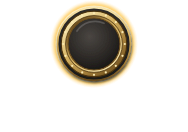
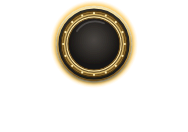
Left rail tabs: a concentric medallion — rim, bevel and enamel shaded round the centre, so the tab no longer looks tilted to the right

diff --git a/graphicalassets/ui/README.md b/graphicalassets/ui/README.md
@@ -21,7 +21,7 @@ A set of interchangeable elements of the board interface in the style of lacquer
 | `src/icons/nations/` | The shebs of eight nations: original, simplified symbols. |
 | `src/battle/` | Window battle  (UI-115): four-mode stage lanes (`scene-field/siege/sortie/relief`, repeat-x), strength frame in hand enamel (`force-frame`,  `free` / `shadow`), the character medallion (`portrait-medallion`, side variants and `cancelled` with red ring), slot card, garrison shelf, statistics icons (`strength`,  `leadership`,  `dice`,  `hit`,  `garrison`), a ribbon of stages (`stage-ribbon`,  `stage-marker`, icons `stage-*`), decision icons `no-card` and `skip-cards`  (UI-116),  dice Fights `die-1` … `die-6` with variants `hit`,  `rerolled`,  `die-selected`,  `die-pressed` and `reroll-arrow`  (UI-117), loss caps `loss-downgrade` / `loss-remove` and the hit seal `hit-seal` with variant `spent`  (UI-118), decision icons `continue`,  `stop`,  `hold`,  `retreat`,  `advance`,  `extend-siege` and parchment round tab `round-tab`  (UI-119 Portrait or figure in the medallion draws the code. |
 | `src/armies/` | Armies on the map and reserves ( UI-125 ): base game figures `base-field` and `base-garrison` (wall with blanks) tokens of the entire map `token-field` and `token-garrison` (corona blank) in enamel of the state side `selected` (golden glow), `eligible` (green glow of a legal source), `pressed` , `moved` (slighting); a sign `moved-check` , the outline of the spirit `ghost-outline` reserve slot `reserve-slot` ( `selected` , `pressed` ) and the budget point `budget-slot` ( `filled` The New Year's Eve, coats of arms and numbers draw the code. |
-| `src/rail/` | The left-hand tabs: `edge-tab`, 94×66 pt without 9-slice. From UI-223 USS puts each tab on a dark lacquer plate with a gilt rim (no new art) and gives usable tabs a bright gold rim that pulses under `.motion-enabled`. From UI-182 only enamelled medallion in a pearly shell on the icon (drawing the code), without tiles, frame, filigree and ribbons; signature draws code under the medallion. Variants change the border of the medallion: `hover` (lighter gold), `selected` (red lake), `pressed`; from UI-193 `available` and `available-hover` — gold light around the medallion available (replaces green `eligible`). |
+| `src/rail/` | The left-hand tabs: `edge-tab`, 94×66 pt without 9-slice. Its rim, bevel and enamel are shaded round the centre with local gradients (2026-10-17), so the small medallion does not look tilted to the right as it did under the shared diagonal light. From UI-223 USS puts each tab on a dark lacquer plate with a gilt rim (no new art) and gives usable tabs a bright gold rim that pulses under `.motion-enabled`. From UI-182 only enamelled medallion in a pearly shell on the icon (drawing the code), without tiles, frame, filigree and ribbons; signature draws code under the medallion. Variants change the border of the medallion: `hover` (lighter gold), `selected` (red lake), `pressed`; from UI-193 `available` and `available-hover` — gold light around the medallion available (replaces green `eligible`). |
 | `src/mordor/` | Mordor track on the map (UI-153): `slab` stone plate (`passed` variant extinguished and `next` with green glow of legal purpose), `crack-of-doom` doom rift (warm crater, `next`) and `gate` gate sign (`next`), drawn with warm pencil ink map. |
 | `src/console/` | Console turn  (UI-159): plate 9 -slice  `frame`, status badge `status-plaque` in the enamel page (`free` / `shadow`, without a base), field recess Hunt   `hunt-box` (variant `eligible` with green glow on assignment), smoke of choice of walls `picker` with a tail `picker-tail` The Ring is `icons/ring`, taken over by Shadow   `icons/ring-captured`; from UI-175 without socket `ring-socket` (removed). UI-167: ribbon `ribbon` in the enamel page (`free` / `shadow`, without a base; 9 -slice  28 pt on the sides, 12 pt top and bottom; text draws code), flying over the map when action passes to the player, and gold glow of the badge `status-glow`  (9 -slice  16 pt) for the condition `your-turn` And a flash at the Reduced Motion. |
 | `src/hunt/` | Hunt : tiles `tile-*` values `eye` , `die` , `smeagol` and signs `reveal` , `stop` , `kings` ( UI-141 ); window Hunt ( UI-159 ): Step icons `stage-tile` , `stage-damage` , `stage-result` , `stage-step` (drop and metastatic `battle/stage-*` ), Seat belts of scenes `scene-hunt` and `scene-mordor` (repeat-x) and injury choices icons `choice-corruption` and `choice-random` . Portrait Guide draws code in the medallion with `battle/` . |
